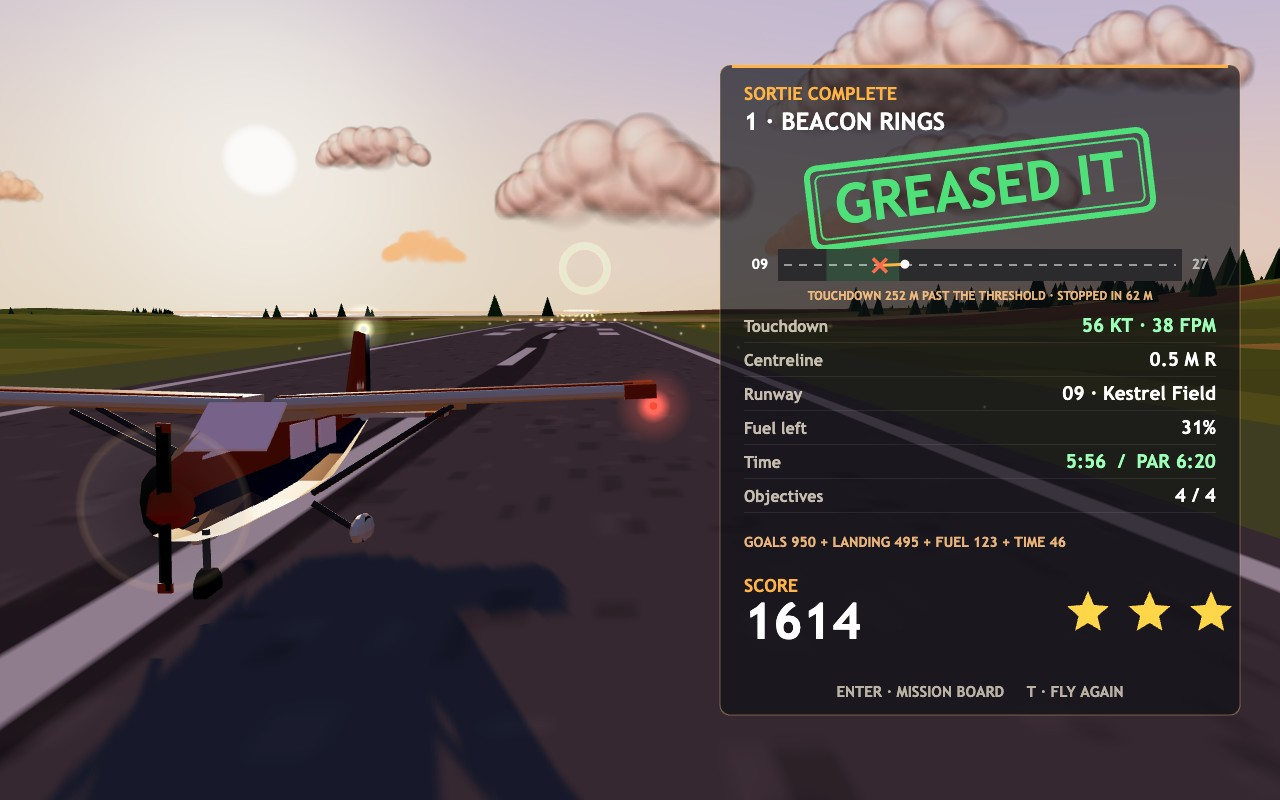
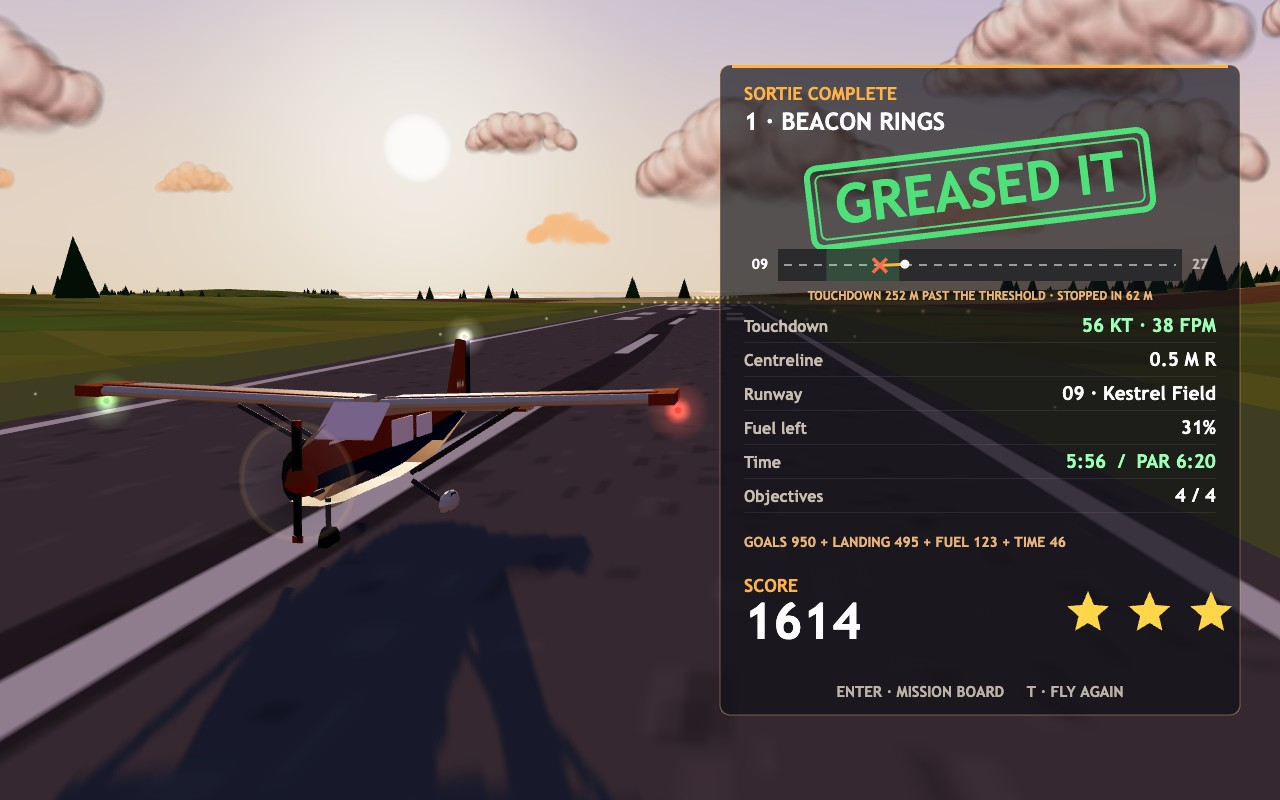
Hide rings once flown; frame the whole aircraft on the landing card

diff --git a/game/src/main.js b/game/src/main.js
@@ -86,7 +86,7 @@ function showBoardSession(index) {
 
 const BOARD_ORBIT = { angle: -1.05, radius: 15, height: 1.6, shift: new THREE.Vector3(0, -2.4, 0) };
 /** After landing the camera looks back west into the sunset over the aircraft, with the card to the right. */
-const RESULT_ORBIT = { angle: 1.9, radius: 16, height: 2.6, shift: new THREE.Vector3(-2.2, 0.8, -6.2) };
+const RESULT_ORBIT = { angle: 1.95, radius: 19.5, height: 3.4, shift: new THREE.Vector3(-1.6, 0.9, -5.2) };
 
 function placeOrbit(aircraft, angle, radius, height, shift) {
   const rig = world.rig;

diff --git a/game/src/ring-markers.js b/game/src/ring-markers.js
@@ -50,7 +50,7 @@ export function updateRingMarkers(view, session, time) {
     const next = i === session.nextRing;
     const soon = i === session.nextRing + 1;
     const pulse = 0.5 + 0.5 * Math.sin(time * 5);
-    m.holder.visible = !passed || i >= session.nextRing - 1;
+    m.holder.visible = !passed;
     m.core.material.color.set(passed ? '#7dffa8' : next ? '#ffc04d' : soon ? '#6fe7ff' : '#8fb9c9');
     m.core.material.opacity = passed ? 0.35 : next ? 1 : soon ? 0.85 : 0.5;
     m.halo.material.color.set(passed ? '#3cff7a' : next ? '#ff8a2a' : '#3fc8ff');
